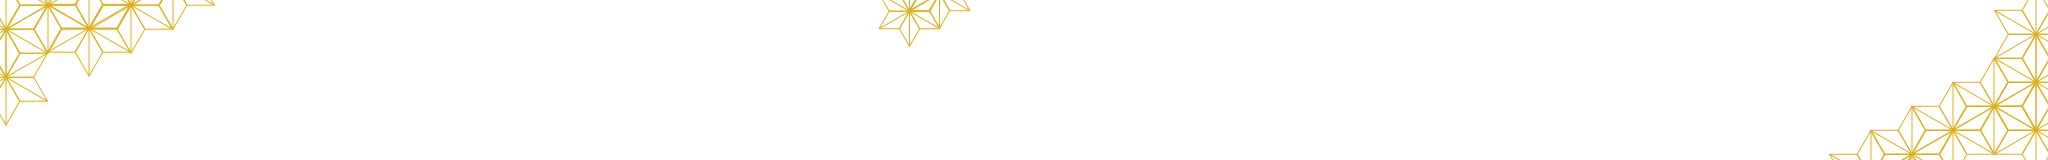
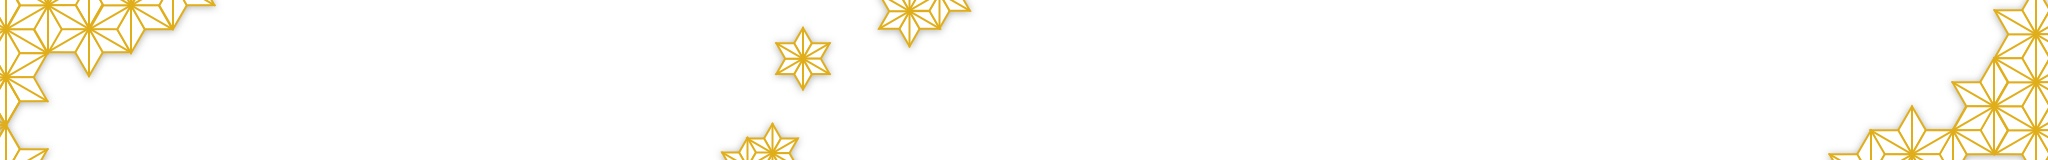
デザイン調整

diff --git a/css/index.css b/css/index.css
@@ -21,6 +21,7 @@ a .fa {
 
 #page-header .navbar-brand {
   font-size: 24px;
+  font-weight: 600;
 }
 #page-header .navbar-brand i {
   font-size: 26px;
@@ -85,7 +86,7 @@ a .fa {
   margin-bottom: 0;
 }
 .jumbotron.header-bg {
-  background:url(../img/header_bg.jpg) center no-repeat; background-size: cover;
+  background: url(../img/japanese-umbrellas-636870_1920.jpg) center no-repeat; background-size: cover;
   position: relative;
 }
 @media screen and (min-width: 768px) {
@@ -202,6 +203,13 @@ section li {
   padding-bottom: 40px;
   background-color: #fff;
 }
+@media screen and (min-width: 768px) {
+  .section-footer{
+    background:url(../img/footer-asanoha-bg.jpg) center no-repeat; background-size: cover;
+    position: relative;
+  }
+}
+
 .section-footer .navbar-nav{
     float: none;
     width: 420px;
